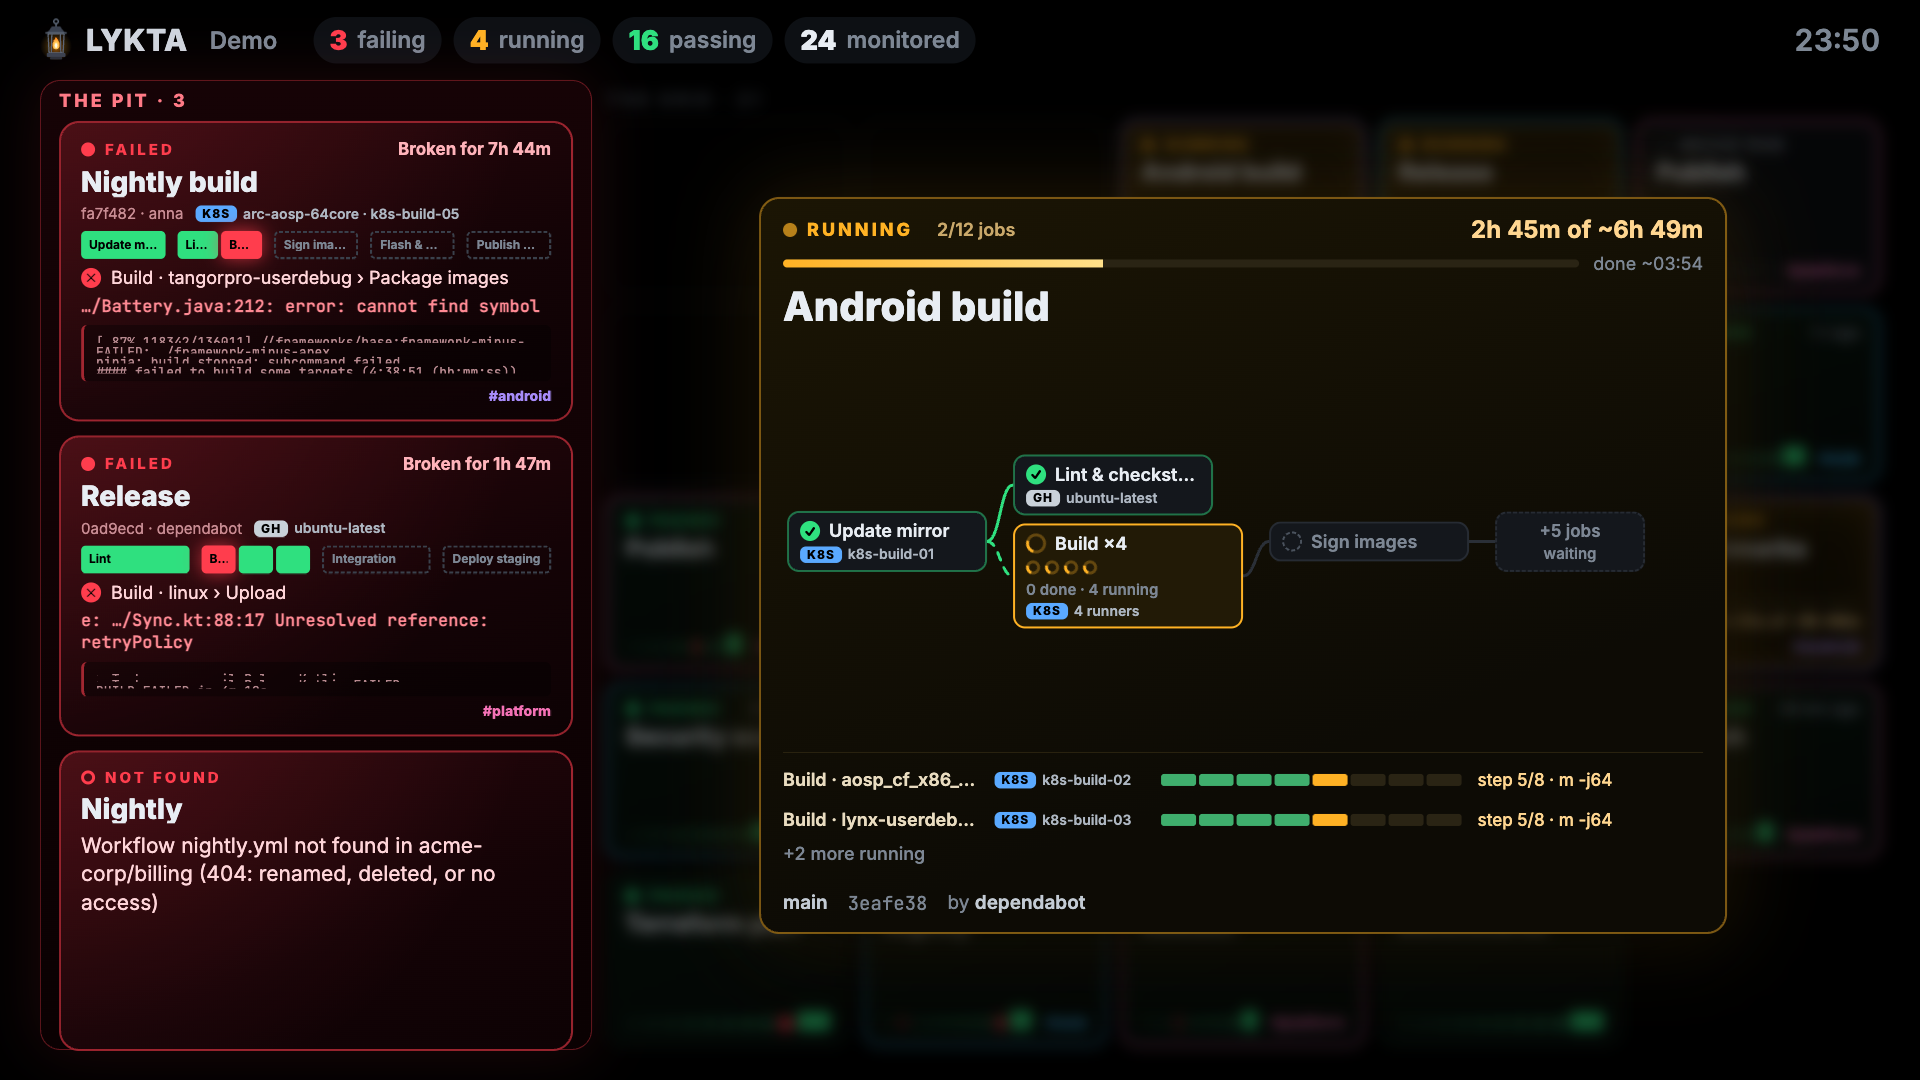
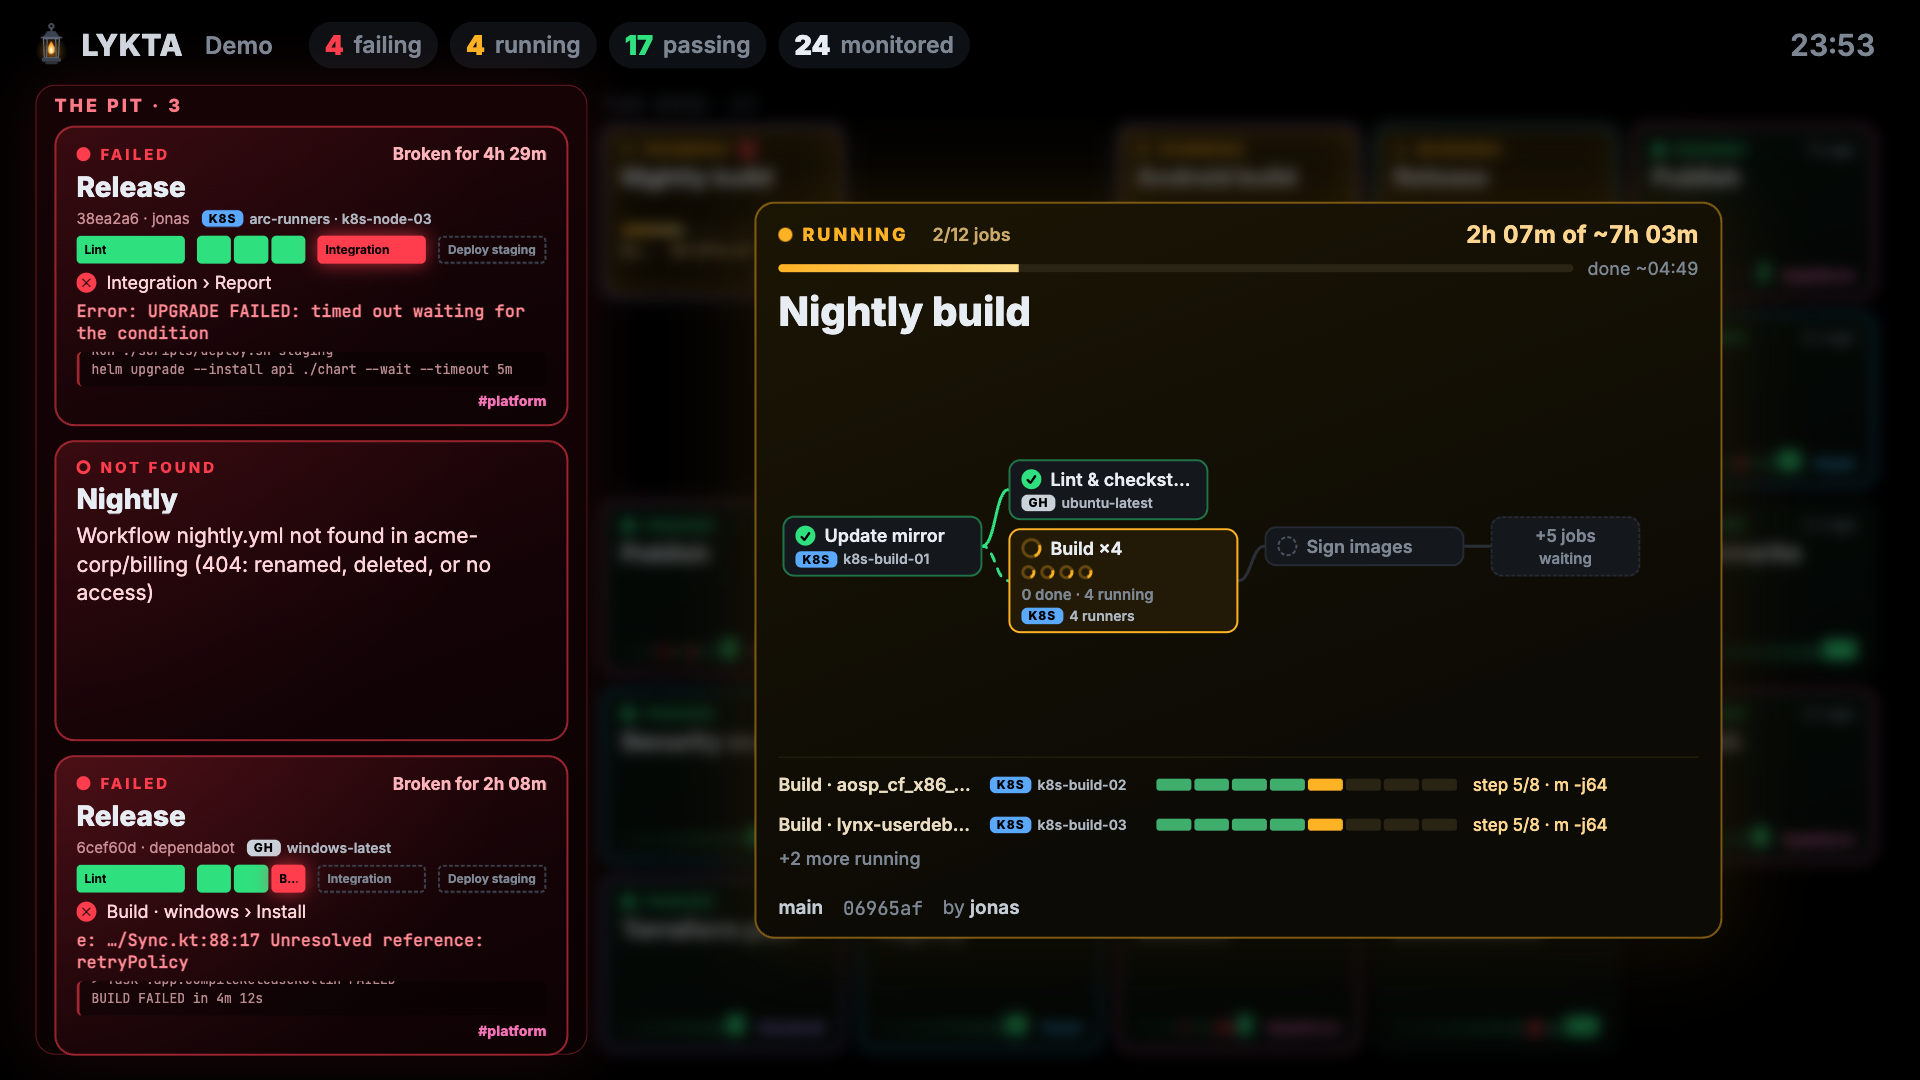
Pit log: only whole lines, as many as the car has room for (none when under two)

diff --git a/src/web/components/Pit.tsx b/src/web/components/Pit.tsx
@@ -12,6 +12,9 @@ import { ProgressStrip } from "./ProgressStrip.tsx";
 import { RunnerBadge } from "./RunnerBadge.tsx";
 import { Tags } from "./Track.tsx";
 
+const CARD_CHROME = 300;
+const LOG_LINE = 19;
+
 const broken = (e: EntryView, now: number) =>
   e.brokenSince ? formatDuration(now - Date.parse(e.brokenSince)) : "";
 
@@ -65,6 +68,14 @@ function Car(props: {
     );
   }
   const run = e.latestCompleted;
+  // the rest of a card (title, strip, where, errors, labels) takes about this much height
+  const roomForLog = Math.floor((props.height - CARD_CHROME) / LOG_LINE);
+  const logLines =
+    mode === "card" && f
+      ? f.logExcerpt
+          .filter((l) => !f.errors?.includes(l) && !GENERIC.test(l))
+          .slice(-Math.max(0, roomForLog))
+      : [];
   return (
     <motion.div {...motionProps} className={`fail car ${mode}`}>
       <div className="glow" />
@@ -87,15 +98,13 @@ function Car(props: {
           ) : null}
           {run?.jobs.length ? <ProgressStrip jobs={run.jobs} labels={mode === "card"} /> : null}
           <FailureWhat e={e} max={mode === "card" ? 3 : 1} />
-          {mode === "card" && f?.logExcerpt.length ? (
-            // what led up to it, as many lines as the car has room for (newest at the bottom)
+          {roomForLog >= 2 && logLines.length ? (
+            // what led up to it: as many whole lines as the car has room for, newest last
             <div className="carlog">
-              {f.logExcerpt
-                .filter((l) => !f.errors?.includes(l) && !GENERIC.test(l))
-                .map((l, i) => (
-                  // biome-ignore lint/suspicious/noArrayIndexKey: log lines are positional
-                  <div key={i}>{shortenPaths(l)}</div>
-                ))}
+              {logLines.map((l, i) => (
+                // biome-ignore lint/suspicious/noArrayIndexKey: log lines are positional
+                <div key={i}>{shortenPaths(l)}</div>
+              ))}
             </div>
           ) : null}
         </>
